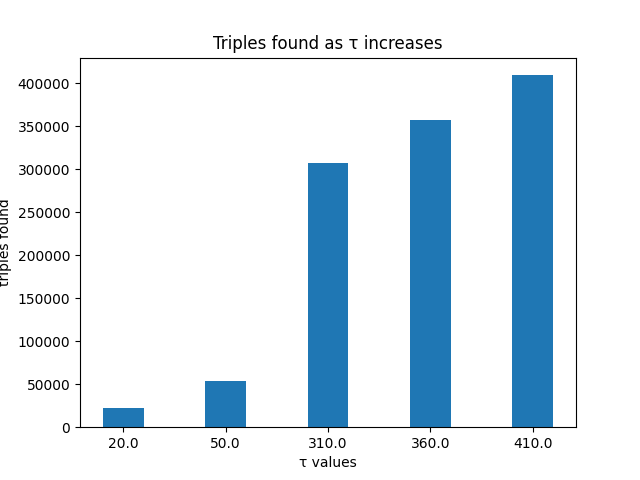
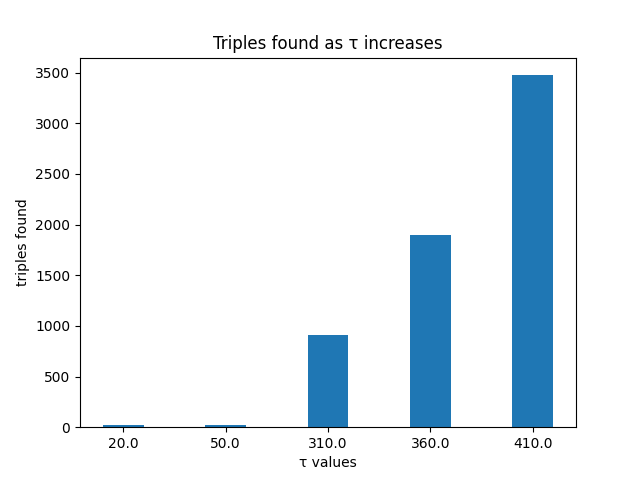
using aggregate arrays, not sum

diff --git a/question2.py b/question2.py
@@ -1,38 +1,54 @@
 from typing import List
+from pyspark import StorageLevel
 from pyspark.sql import DataFrame
 import pyspark.sql.functions as F
 from matplotlib import pyplot as plt
+from pyspark.sql.types import ArrayType, FloatType
 
 import statistics
 
 
 def question2(df: DataFrame):
-    t_values = [20.0, 50.0, 310.0, 360.0, 410.0]
-    results = [query(df, t) for t in t_values]
+    variance_df = calc_variances(df)
 
-    print(zip(t_values, results))
+    t_values = [20.0, 50.0, 310.0, 360.0, 410.0]
+    results = [query(variance_df, t) for t in t_values]
+
+    for t, res in zip(t_values, results):
+        print(f"τ={t}: {res}")
 
     plot(list(map(str, t_values)), results)
 
 
-def query(df: DataFrame, t: float) -> int:
+def calc_variances(df: DataFrame) -> DataFrame:
     def calculate_var(row):
         return statistics.variance(row)
 
-    var_udf = F.udf(calculate_var, 'float')
+    def calculate_agg(row):
+        return [x+y for x, y in zip(row[0], row[1])]
 
-    df_with_sum = df.withColumn('SUM', sum(
-        [F.col(c) for c in df.columns[1:]]  # type: ignore
-    )).select('_1', 'SUM')
-    return df_with_sum \
-        .crossJoin(df_with_sum.selectExpr('_1 as _2', 'SUM as SUM2'))\
+    var_udf = F.udf(calculate_var, 'float')
+    agg_udf = F.udf(calculate_agg, ArrayType(FloatType()))
+
+    df_with_arr = df.withColumn('ARR', F.array(
+        df.columns[1:])).select('_1', 'ARR')
+    return df_with_arr \
+        .crossJoin(df_with_arr.selectExpr('_1 as _2', 'ARR as ARR2'))\
         .filter('_1 != _2')\
-        .crossJoin(df_with_sum.selectExpr('_1 as _3', 'SUM as SUM3'))\
+        .withColumn('ARR_AGG_1', agg_udf(F.array('ARR', 'ARR2')))\
+        .select('_1', 'ARR_AGG_1')\
+        .crossJoin(df_with_arr.selectExpr('_1 as _3', 'ARR as ARR3'))\
         .filter('_1 != _3')\
+        .withColumn('AGG', agg_udf(F.array('ARR_AGG_1', 'ARR3')))\
+        .select('_1', 'AGG')\
         .withColumn(
             'var',
-            var_udf(F.array('SUM', 'SUM2', 'SUM3'))
-        ).filter(f'var <= {t}').count()
+            var_udf(F.col('AGG'))
+        ).persist(StorageLevel.MEMORY_ONLY)
+
+
+def query(df: DataFrame, t: float) -> int:
+    return df.filter(f'var <= {t}').count()
 
 
 def plot(t_values: List[str], results: List[int]):

diff --git a/main.py b/main.py
@@ -11,8 +11,9 @@ def get_spark_context(on_server) -> SparkContext:
     spark_context = SparkContext.getOrCreate(spark_conf)
 
     if on_server:
-        # TODO: You may want to change ERROR to WARN to receive more info. For larger data sets, to not set the
-        # log level to anything below WARN, Spark will print too much information.
+        # TODO: You may want to change ERROR to WARN to receive more info.
+        # For larger data sets, to not set the log level to anything below WARN,
+        # Spark will print too much information.
         spark_context.setLogLevel("ERROR")
 
     return spark_context
@@ -26,9 +27,10 @@ def q1a(spark_context: SparkContext, on_server: bool) -> DataFrame:
     # TODO: Implement Q1a here by creating a Dataset of DataFrame out of the file at {@code vectors_file_path}.
 
     with open(vectors_file_path) as f:
-        lines = [line.split(',') for line in f.readlines()]
+        lines = [line.strip().split(',') for line in f.readlines()]
         return spark_session.createDataFrame(
-            [tuple([line[0]] + line[1].split(';')) for line in lines]
+            [tuple([line[0]] + [float(x) for x in line[1].split(';')])
+             for line in lines]
         )
 
 
@@ -38,9 +40,10 @@ def q1b(spark_context: SparkContext, on_server: bool) -> RDD:
     # TODO: Implement Q1b here by creating an RDD out of the file at {@code vectors_file_path}.
 
     with open(vectors_file_path) as f:
-        lines = [line.split(',') for line in f.readlines()]
+        lines = [line.strip().split(',') for line in f.readlines()]
         return spark_context.parallelize(
-            [[line[0]] + line[1].split(';') for line in lines]
+            [[line[0]] + [float(x) for x in line[1].split(';')]
+             for line in lines]
         )
 
 
